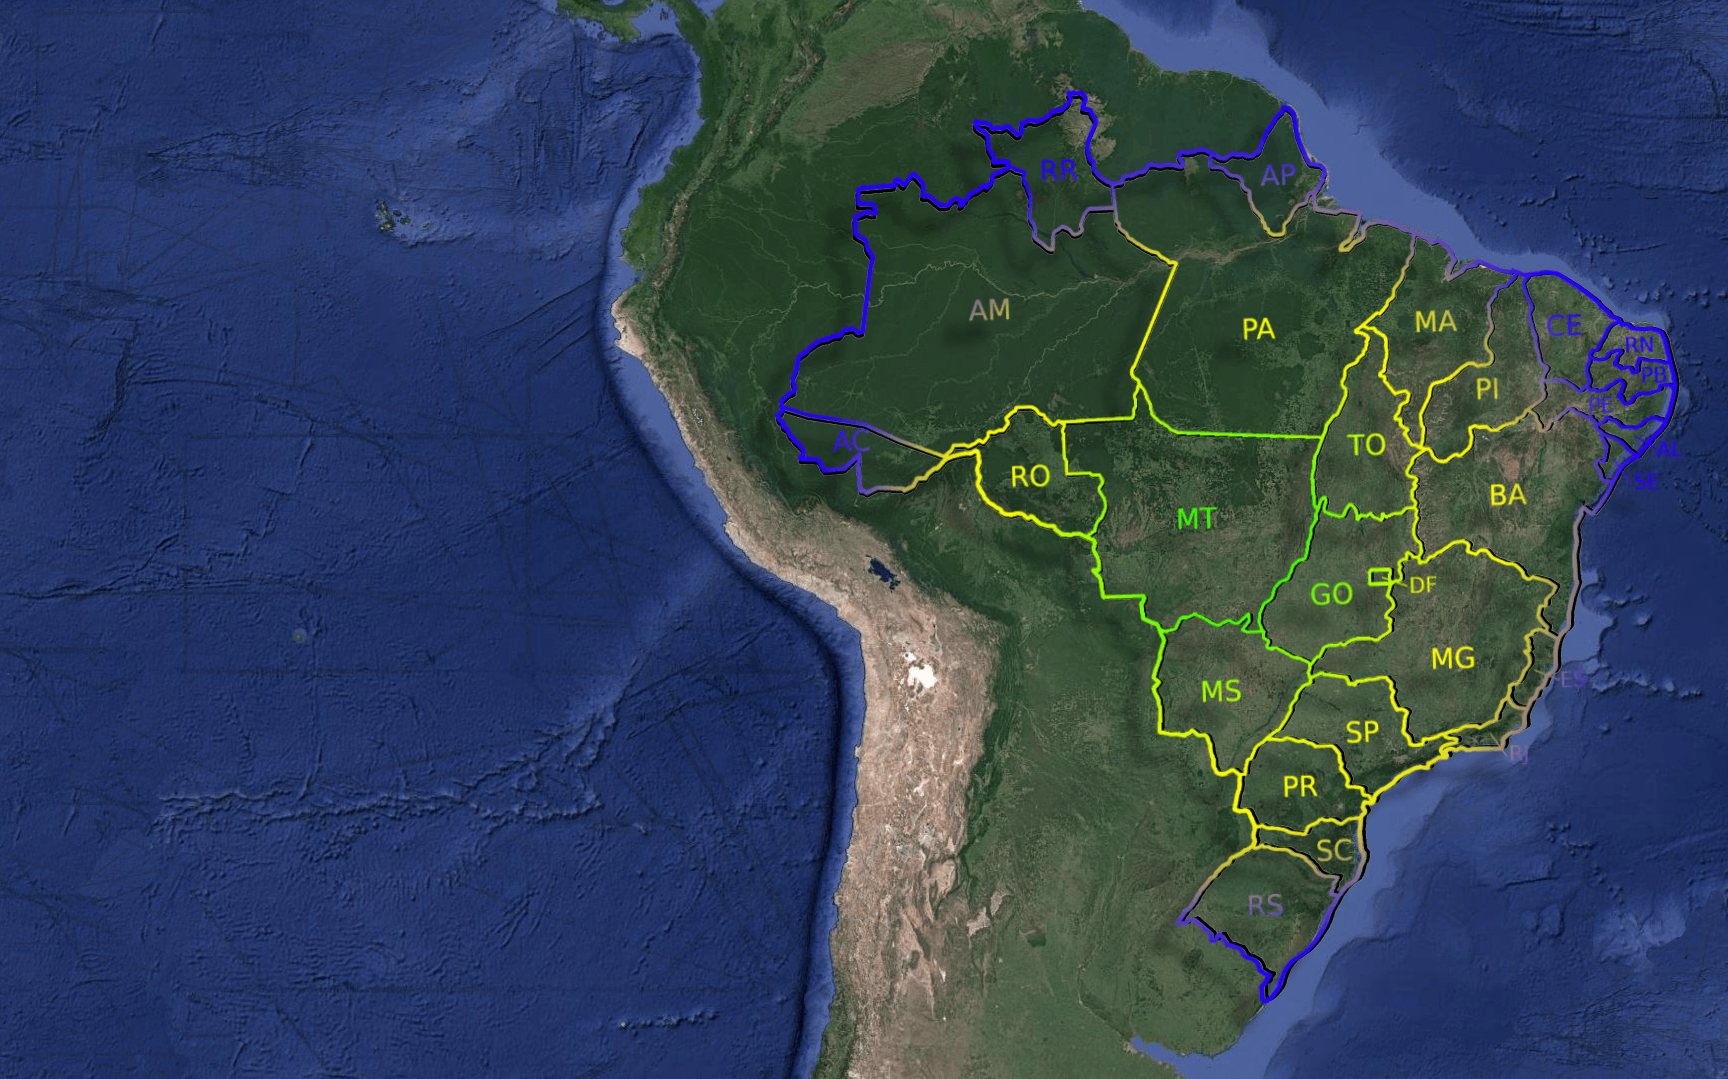
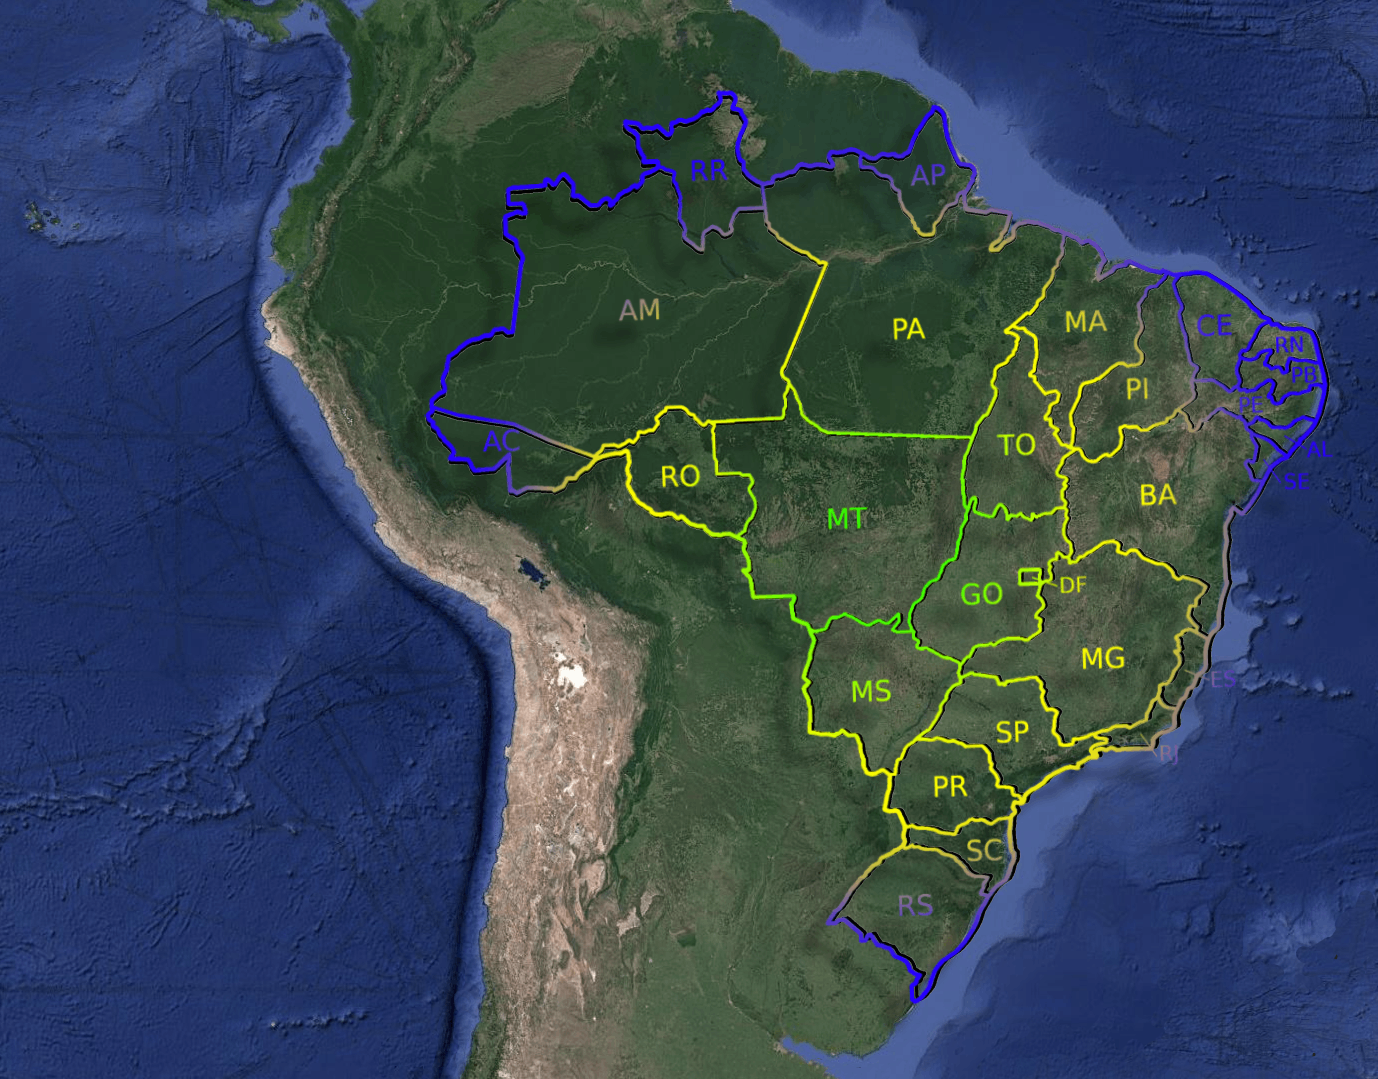
fix: ajuste do layout #38

diff --git a/src/pages/GameMap.js b/src/pages/GameMap.js
@@ -1,6 +1,7 @@
 import React from 'react';
+import { Col, Container, Navbar, Row } from 'react-bootstrap';
 import GameManager from '../components/GameManager';
-import MapaBrasil from '../components/MapaBrasil';
+// import MapaBrasil from '../components/MapaBrasil';
 import { PLAYER_MATCH_INFO } from '../helper/CONSTANTS';
 
 function GameMap() {
@@ -8,29 +9,31 @@ function GameMap() {
     players: [
       { id: 1, color: PLAYER_MATCH_INFO.red, archetype: 'human' },
       { id: 2, color: PLAYER_MATCH_INFO.green, archetype: 'ia' },
-      { id: 3, color: PLAYER_MATCH_INFO.white, archetype: 'ia' },
+      { id: 3, color: PLAYER_MATCH_INFO.black, archetype: 'ia' },
+      { id: 4, color: PLAYER_MATCH_INFO.blue, archetype: 'ia' },
+      { id: 5, color: PLAYER_MATCH_INFO.yellow, archetype: 'ia' },
     ],
   };
 
   return (
-    <div className="App">
-      <section className="h-100">
-        <header className="container h-100">
-          <div className="d-flex align-items-center justify-content-center h-100">
-            <div className="d-flex flex-column">
-              <nav className="navbar navbar-expand-lg navbar-dark fixed-top bg-dark">
-                <h1 className="navbar-brand">War: Mapa do Brasil</h1>
-                <GameManager match={match} />
-              </nav>
-              <main className="content-wrapper">
-                <div className="container-fluid">
-                  <MapaBrasil />
-                </div>
-              </main>
-            </div>
-          </div>
-        </header>
-      </section>
+    <div className="wrapper">
+      <Navbar bg="dark" variant="dark">
+        <Container>
+          <Navbar.Collapse className="justify-content-center">
+            <Navbar.Text className="text-light">War 1 - Brasil</Navbar.Text>
+          </Navbar.Collapse>
+        </Container>
+      </Navbar>
+      <Container fluid className="game-map-container">
+        <Row className="h-100">
+          <Col xs={3} className="sidebar">
+            <nav>
+              <GameManager match={match} />
+            </nav>
+          </Col>
+          <Col xs={9} className="main" />
+        </Row>
+      </Container>
     </div>
   );
 }

diff --git a/src/custom.scss b/src/custom.scss
@@ -1,82 +1,48 @@
-
 // Import Bootstrap and its default variables
 @import '~bootstrap/scss/bootstrap.scss';
 
-body, html {
-    width: 100%;
-    height: 100%;
-    background-color: black;
-    
-}
-
+html,
+body,
+.wrapper,
 #root {
-    width: 100%;
-    height: 100%;
-}
-
-.player-card {
-    width: 24rem;
-    height: 8rem;
+  height: 100%;
 }
 
 .App {
-    position: relative;
-    width: 100%;
-    height: 100%;
-    background-image: url(assets/images/background.png);
-    background-repeat: no-repeat;
-    background-size: cover;
-    display: block;
+  position: relative;
+  width: 100%;
+  height: 100%;
+  background-image: url(assets/images/background.png);
+  background-repeat: no-repeat;
+  background-size: cover;
+  display: block;
 }
 
-// Inserido devido a criação do menu lateral
-// TODO: Refatorar
-
-@media (min-width: 992px) {
-    .sidenav {
-      position: absolute;
-      top: 0;
-      left: 0;
-      width: 350px;
-      height: calc(100vh - 3.5rem);
-      margin-top: 3.5rem;
-      background: #343a40;
-      box-sizing: border-box;
-      border-top: 1px solid rgba(0, 0, 0, 0.3);
-    }
-  .navbar-expand-lg .sidenav {
-    flex-direction: column;
-  }
-
-  .content-wrapper {
-    margin-left: 230px;
-  }
+.game-map-container {
+  height: 100%;
 }
 
-.nav-link:hover {
-    transition: all 0.4s;
+.sidebar {
+  padding: 0 !important;
+  position: relative;
+  float: left;
+  height: 100%;
+  overflow-y: auto;
 }
-  
-.nav-link-collapse:after {
-    float: right;
-    content: '\f067';
-    font-family: 'FontAwesome';
+
+.main {
+  background-image: url(assets/images/maps/mapa_brasil.png);
+  background-repeat: no-repeat;
+  overflow: hidden;
+  background-size: cover;
+  background-position: center;
 }
-  
-.nav-link-show:after {
-    float: right;
-    content: '\f068';
-    font-family: 'FontAwesome';
+
+.player-card {
+  width: 24rem;
+  height: 8rem;
 }
-  
-.nav-item ul.nav-second-level {
-    padding-left: 0;
-}
-  
-.nav-item ul.nav-second-level > .nav-item {
-    padding-left: 20px;
-}
-.nav-scrollable {
-    height:150px;
-    overflow-y: scroll;
+
+.play-icon {
+    margin: auto;
 }

diff --git a/src/components/Player.js b/src/components/Player.js
@@ -25,17 +25,21 @@ function Player(props) {
   return (
     <ListGroup.Item as="li" variant={playerInfo.color.variant}>
       <Container>
-        <Row>
-          <Col>
+        <Row className="py-2">
+          <Col xs={3} className="play-icon" align="right">
             <PlayerIcon archetype={playerInfo.archetype} />
           </Col>
-          <Col xs={10}> Exército {playerInfo.color.name}</Col>
+          <Col xs={9}>Exército {playerInfo.color.name}</Col>
+        </Row>
+        <Row>
           {estadosInfo.map((estadoInfo) => (
-            <EstadoFederacao
-              estadoInfo={estadoInfo}
-              playerInfo={playerInfo}
-              key={estadoInfo.estado.idEstado}
-            />
+            <Col xs={12}>
+              <EstadoFederacao
+                estadoInfo={estadoInfo}
+                playerInfo={playerInfo}
+                key={estadoInfo.estado.idEstado}
+              />
+            </Col>
           ))}
         </Row>
       </Container>

diff --git a/src/components/EstadoFederacao.js b/src/components/EstadoFederacao.js
@@ -18,16 +18,15 @@ function EstadoFederacao(props) {
       bg={playerInfo.color.variant}
       key={estadoInfo.estado.idEstado}
       text={playerInfo.color.variant === 'light' ? 'dark' : 'white'}
-      style={{ width: '18rem' }}
       className="mb-2"
     >
-      <Card.Header>
+      <Card.Header className="text-center">
         {`${estadoInfo.estado.sigla} - ${estadoInfo.estado.nome}`}
       </Card.Header>
       <Card.Body>
         <Container>
           <Row>
-            <Col>
+            <Col xs={4}>
               <MapaEstado estado={estadoInfo.estado} />
             </Col>
             <Col xs={8}>{`${estadoInfo.exercitos} Exércitos`}</Col>

diff --git a/src/components/GameManager.js b/src/components/GameManager.js
@@ -6,10 +6,10 @@ function GameManager(props) {
   const { match } = props;
 
   return (
-    <div className="100vh">
+    <div>
       <ListGroup
         as="ul"
-        className="navbar-nav mr-auto sidenav nav-scrollable players"
+        className=""
         key="players"
       >
         {match.players.map((playerInfo) => (
